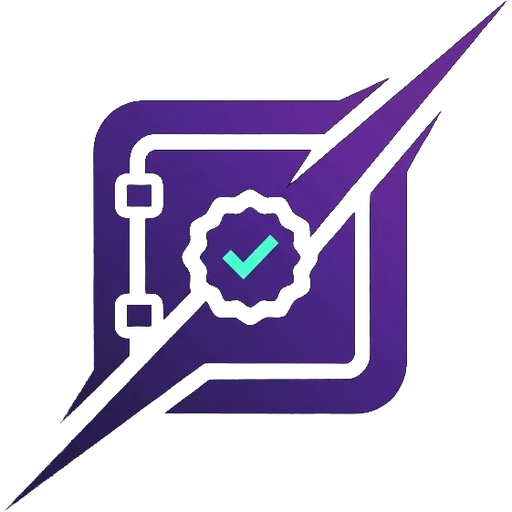
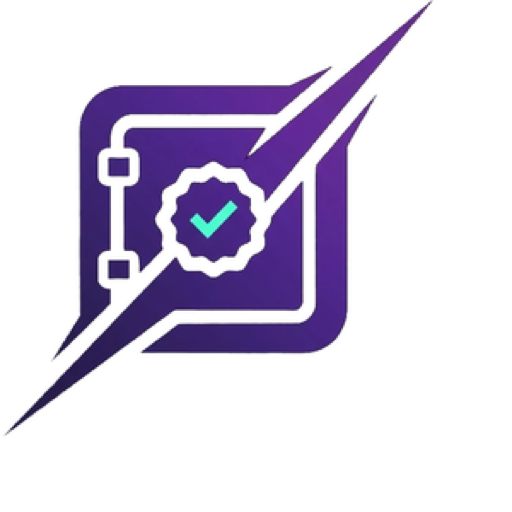
docs: черновик заявки на хакатон, русская версия с нумерацией
Все поля формы разобраны по пунктам, чтобы Пётр мог править точечно.
Отдельно расписан план интеграции Cleanverse — поле помечено как
необязательное, но именно за глубину интеграции CVI/CVA дают 30 баллов из
100, и это единственное место в заявке, где её можно показать заранее.

Плюс иконка 512x512 из вектора для формы.

Changed region(s): [[0.0, 0.0, 1.0, 1.0], [0.8438, 0.2188, 0.875, 0.25], [0.8125, 0.0, 0.8438, 0.0312]]

diff --git a/docs/APPLICATION-ru.md b/docs/APPLICATION-ru.md
@@ -1,0 +1,167 @@
+# Заявка на Cleanverse Build — русская версия
+
+Черновик для проверки. Каждый абзац пронумерован — говори «переделать 4.2», и
+я правлю точечно. После правок переведу на английский и заполним форму.
+
+---
+
+# 1. Простые поля
+
+**1.1 Team / Project Icon**
+`static/images/icon-512.png` — 512×512, PNG, 104 КБ, сделан из вектора.
+Требования формы (до 2 МБ, 512×512) выполнены.
+
+**1.2 Project Name**
+```
+EscrowNad
+```
+
+**1.3 Team / Company**
+Заполнить самому — название команды или юрлица.
+
+**1.4 Contact Email**
+Заполнить самому. На эту почту придёт доступ к API и документации, так что
+почта нужна рабочая и доступная ближайшие дни.
+
+**1.5 Track**
+```
+RWA — Real-World Assets, Verified
+```
+
+---
+
+# 2. Team Background (о команде)
+
+**2.1** Небольшая инженерная команда, делаем production-инфраструктуру для
+финансовых сервисов на Rust.
+
+**2.2** Наш оператор много лет торгует блоками IPv4 на вторичном рынке —
+продано около 8000 адресов по 33–35 долларов — и заметную часть выручки терял
+на посредниках при переводах и на разрыве доверия между покупателем и
+продавцом. EscrowNad — это инструмент, которого нам самим не хватало, пока мы
+вели эти сделки руками.
+
+**2.3** Стек собственный: платформа сервисов на Rust (база, шлюз, веб,
+наблюдатель), уже работающая под несколькими продуктами, плюс контракты на
+Solidity в сети Monad. Всё перечисленное ниже — работает, а не запланировано.
+
+---
+
+# 3. Project Description (описание проекта)
+
+**3.1 Одной строкой.** EscrowNad — эскроу, который раскрывается по внешнему
+доказательству, а не по доверию к контрагенту.
+
+**3.2 Проблема.** Передача блока IPv4, диапазона IPv6 или номера ASN занимает
+дни бумажной работы в реестре. Продавец не отдаёт ресурс до оплаты, покупатель
+не платит до регистрации перехода. Сегодня этот разрыв закрывают брокеры:
+берут комиссию и при этом ничего не могут доказать. Наш оператор продал таким
+способом около 8000 адресов и заплатил за этот разрыв дважды.
+
+**3.3 Как это работает.** Покупатель вносит USDC в контракт-замок на Monad.
+Дальше наблюдатель на Rust следит за конкретной сетью в двух независимых
+публичных источниках: таблицы трансферов RIPE и сам реестр через RDAP. Когда
+переход появляется — и только тогда — деньги уходят продавцу. Никого не просят
+ручаться.
+
+**3.4 Что если сделка не состоялась.** Если факт так и не появился, покупатель
+забирает деньги обратно по истечении срока, и для этого мы ему не нужны —
+возврат заложен в контракт.
+
+**3.5 Что уже работает в тестовой сети Monad.** Контракт эскроу с проверенным
+исходным кодом (`0xe5289D23829ABE1Aa882c3355A65001de7294a46`), девять
+состоявшихся сделок на публичной доске — каждую можно сверить с реальной
+записью в таблицах RIPE, комиссия площадки 1% плюс 1% в страховой фонд, чей
+баланс любой может прочитать в цепи, и проверка каждой заявки оператором до
+публикации.
+
+**3.6 Почему Cleanverse нам необходим.** Мы умеем доказать, что актив перешёл.
+Мы не умеем доказать, кто стороны сделки. Сегодня контрагент — это голый адрес
+кошелька, и ровно здесь доверие всё ещё протекает.
+
+**3.7 Что даёт CVI.** Личность привязана к кошельку: продавец может
+подтвердить, что он и есть то юрлицо, за которым блок числится в реестре, а
+доступ к крупным сделкам можно ограничить только проверенными участниками —
+это и есть ограничение перевода в точке расчёта.
+
+**3.8 Что даёт CVA.** Стандартное проверенное представление актива с
+программируемыми правилами — вместо кустарного доказательства, которое мы
+построили руками.
+
+**3.9 Travel Rule.** Расчёт уже идёт через один вызов контракта, значит для
+данных Travel Rule есть ровно одно место.
+
+**3.10 Итог.** Мы построили слой доказательства. Cleanverse — это слой личности
+и комплаенса, который превращает его в рынок, пригодный для институтов.
+
+---
+
+# 4. Cleanverse Integration Plan (план интеграции)
+
+Поле помечено как необязательное, но заполнять надо: глубина интеграции
+CVI/CVA — самый весомый критерий оценки, тридцать баллов из ста. Это
+единственное место в заявке, где можно показать её заранее.
+
+**4.1 Где стык.** Продукт состоит из трёх слоёв: доказательство перехода актива
+(готово), расчёт в USDC через контракт на Monad (готов) и проверка сторон
+сделки (нет). Cleanverse закрывает третий слой, и стыковка проходит по
+границам, которые уже существуют в коде.
+
+**4.2 CVI на входе.** Сейчас участник — это адрес кошелька, о котором мы ничего
+не знаем. Вход уже через подпись кошельком, и при входе мы сохраняем публичный
+ключ — точка привязки личности готова. Интеграция: проверка наличия CVI у
+кошелька при входе, отметка проверенного участника в интерфейсе, запрет на
+сделки выше порога для непроверенных.
+
+**4.3 CVI на продавца против реестра.** Здесь конкретная дыра, которую нечем
+закрыть без вас. Мы умеем спросить реестр, какое юрлицо держит блок (RDAP
+отдаёт название организации), но не умеем доказать, что человек с кошельком —
+это то самое юрлицо. Сверка названия из реестра с подтверждённой личностью в
+CVI закрывает главный риск рынка: продавца, который выставляет чужой блок.
+
+**4.4 CVA на актив.** Блок IPv4 или номер ASN, подтверждённый записью реестра,
+— это верифицируемый актив с прослеживаемым происхождением. Сейчас проверку
+делаем сами: два независимых источника, хэш условия сделки в контракте, ключ
+факта в событии выпуска. Наши поля `conditionHash` и ключ факта — готовые точки
+привязки к CVA-представлению.
+
+**4.5 Travel Rule в расчёте.** Расчёт идёт через один вызов контракта, где обе
+стороны и сумма уже известны. Это ровно одна точка встраивания — поток
+перестраивать не нужно.
+
+**4.6 CCP на модерацию.** У нас уже есть проверка каждой заявки оператором
+перед публикацией: карточка с данными реестра и балансом кошелька уходит в
+Telegram, оператор решает вручную. Это место просится под программируемые
+правила: то, что оператор проверяет глазами, должно проверяться правилом до
+транзакции.
+
+**4.7 Порядок в окно хакатона.** Начнём с CVI на входе и проверки продавца
+против названия организации в реестре — это закрывает самую большую дыру
+доверия и даёт видимый результат в интерфейсе. Дальше CVA на актив и Travel
+Rule в расчёте.
+
+**4.8 После хакатона.** Правила комплаенса вместо ручной модерации; вынос ключа
+оракула на отдельную машину, чтобы шифрование документов сторон перестало
+зависеть от доверия к нам как к оператору.
+
+---
+
+# 5. Business Plan / Deck
+
+**5.1** Опционально, PDF или презентация до 10 МБ. Такого документа у нас нет.
+
+**5.2** Материал для него есть: рынок IPv4 с реальными ценами, наша комиссия 1%
+против того, что берут брокеры, страховой фонд, планы по IPv6 и ASN. Но время
+лучше потратить на демо-видео: оно обязательно, а презентация — нет.
+
+---
+
+# 6. Что понадобится к сдаче
+
+Не для этой формы, но помнить.
+
+**6.1** Публичный репозиторий — сейчас код в приватном git, зеркала нет.
+
+**6.2** Демо-видео — не снято.
+
+**6.3** Работающий деплой — есть, `escrownad.com`.
